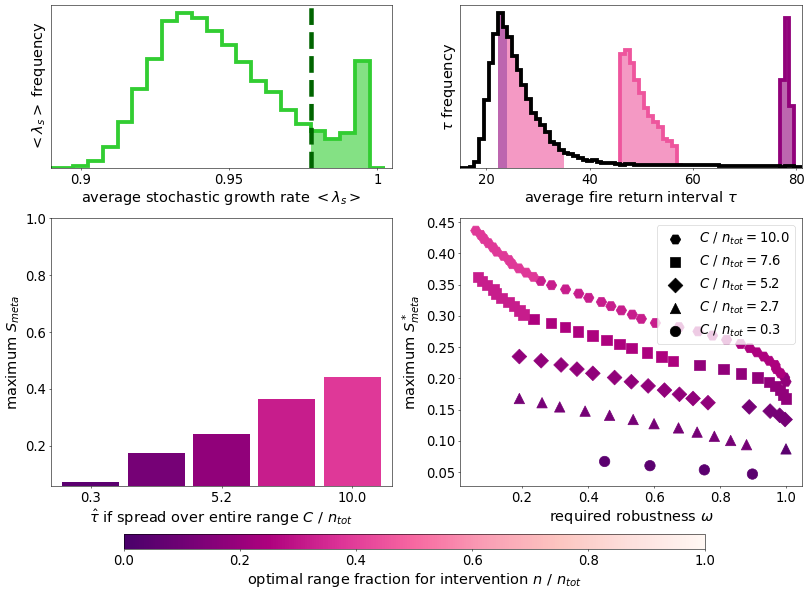
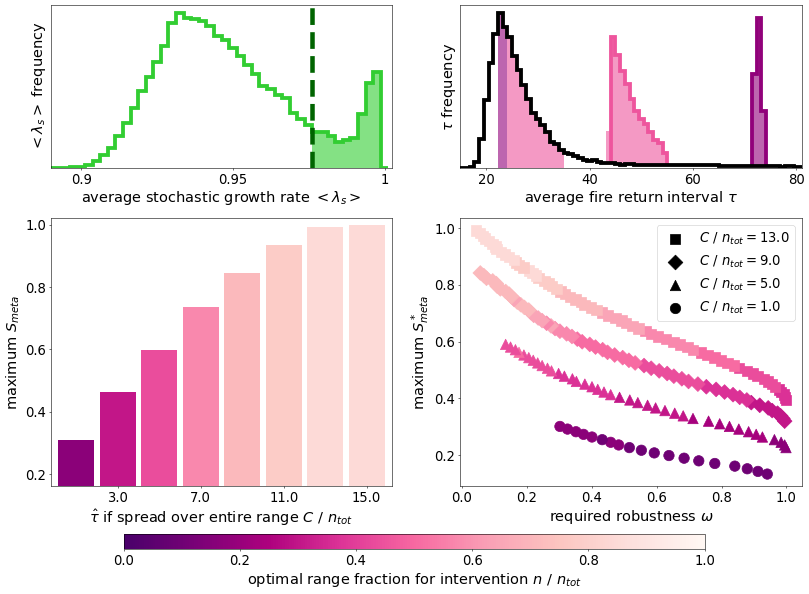
Update C initialization

diff --git a/sensitivity/project.py b/sensitivity/project.py
@@ -48,7 +48,6 @@ def run_sims(job):
     N_0_1 = Aeff*params['K_adult']
     N_0_1_vec = np.repeat(N_0_1, num_reps)
     init_age = params['a_mature'] - (np.log((1/0.90)-1) / params['eta_rho']) # Age where 90% of reproductive capacity reached
-    print('init_age:', init_age)
     init_age = int(init_age + 0.5) # Round to nearest integer
     t_vec = np.arange(delta_t, job.sp.t_final+delta_t, delta_t)
 
@@ -265,11 +264,6 @@ class Phase:
         if np.isnan(self.final_max_tau): 
             # NaN here means set to max of fri_vec
             self.final_max_tau = max(self.tau_vec)
-        self.baseline_A_vec = np.linspace(self.baseline_A_min, self.baseline_A_max, self.baseline_A_samples)
-
-        # Generate resource allocation values
-        self.ncell_baseline_vec = np.round(self.baseline_A_vec / self.A_cell).astype(int) 
-        self.C_vec = self.ncell_baseline_vec * self.tauc_baseline
 
         # Set generator for random uncertainties
         self.rng = np.random.default_rng()
@@ -354,7 +348,6 @@ class Phase:
                 ax.set_xlabel('<FRI>')
                 ax.set_ylabel(self.metric)
                 figs_dir = f"{self.meta_metric}/figs/Aeff_{self.Aeff}/tfinal_{self.t_final}/metric_{self.metric}/"
-                print(figs_dir)
                 if not os.path.isdir(figs_dir):
                     os.makedirs(figs_dir)
                 print("saving sensitivity figure")
@@ -425,6 +418,8 @@ class Phase:
 
         # Generate samples of remaining state variables
         self.ncell_tot = len(self.tau_flat)
+        # Get samples of total shift to fire regime (C)  
+        self.C_vec = self.tauc_min_samples * self.ncell_tot
         # Use the max post alteration tau to get an upper bound on right hand of initial tau slices
         self.tau_argsort_ref = np.argsort(self.tau_flat)
         tau_sorted = self.tau_flat[self.tau_argsort_ref] 
@@ -435,7 +430,7 @@ class Phase:
         # Min left bound set by user-defined constant
         slice_left_min = np.nonzero(tau_sorted > self.min_tau)[0][0]
         # Generate slice sizes of the tau distribution
-        self.ncell_vec = np.linspace(max(self.ncell_baseline_vec), self.slice_right_max, self.ncell_samples)
+        self.ncell_vec = np.linspace(self.ncell_min, self.slice_right_max, self.ncell_samples)
         self.ncell_vec = np.round(self.ncell_vec).astype(int)
         # Max left bound set by smallest slice size
         self.slice_left_max = self.slice_right_max - min(self.ncell_vec)
@@ -674,8 +669,8 @@ class Phase:
             metric_exp_dist[metric_exp_dist < 0] = 0.0
             if np.any(metric_exp_dist < 0): sys.exit(f"metric_expect is negative ({self.metric_expect}), exiting!")
         elif self.metric == 'lambda_s':
-            #threshold = 0.975
-            threshold = 0.994
+            threshold = 0.975
+            #threshold = 0.994
         '''Still calling this metric_expect for now but should change this to metric_quantity or something'''
         self.metric_expect = np.count_nonzero(metric_exp_dist >= threshold) / self.ncell_tot
 

diff --git a/sensitivity/phase.py b/sensitivity/phase.py
@@ -22,16 +22,13 @@ constants['lr_coord'] = [2723, 3905]
 constants['min_tau'] = 2
 constants['A_cell'] = 270**2 / 1e6 #km^2
 constants['plotting_tau_bw_ratio'] = 30 #For binning initial tau (with uncertainty) in phase slice plots
-constants['tauc_baseline'] = 200 #years, max(tauc) possible at min(ncell) given C
+constants['ncell_min'] = 2_500
 #constants['ncell_samples'] = 25
 constants['ncell_samples'] = 15
 #constants['slice_samples'] = 50
 constants['slice_samples'] = 30
-constants['baseline_A_min'] = 10 #km^2
-constants['baseline_A_max'] = 160 * 2.0043963553530753
-#constants['baseline_A_max'] = (160 * 2.0043963553530753) * 2
-#constants['baseline_A_samples'] = 9
-constants['baseline_A_samples'] = 5
+# Use the minimum tauc values (i.e. when spread over all cells) to determine C values
+constants['tauc_min_samples'] = np.arange(1, 17, 2) 
 constants['root'] = 0 #For mpi
 constants.update({'final_max_tau': np.nan})
 constants['overwrite_results'] = True
@@ -92,7 +89,7 @@ with tqdm(total=total_computations) as pbar:
                 # Generate uncertainties on initial tau values
                 pproc.generate_eps_tau(mu_tau, sigm_tau)
                 for mu_tauc, sigm_tauc in product(mu_tauc_vec, sigm_tauc_vec):
-                    if pproc.rank == pproc.root: print(f"on (mu_tau, sigm_tau, mu_tauc, sigm_tauc)={mu_tau, sigm_tau, mu_tauc, sigm_tauc}")
+                    #if pproc.rank == pproc.root: print(f"on (mu_tau, sigm_tau, mu_tauc, sigm_tauc)={mu_tau, sigm_tau, mu_tauc, sigm_tauc}")
                     # Generate uncertainties on alterations to tau values
                     pproc.generate_eps_tauc(mu_tauc, sigm_tauc)
                     # Calculate <metric> at sampled resource constraint values and alteration slice sizes

diff --git a/sensitivity/makefig.py b/sensitivity/makefig.py
@@ -28,7 +28,7 @@ tau_vec = b_vec * gamma(1+1/c)
 tau_step = np.diff(tau_vec)[0] / 2
 tau_edges = np.concatenate(([0], np.arange(tau_step/2, tau_vec[-1]+tau_step, tau_step)))
 tauc_methods = ["flat"]
-C_i_vec = [0,1,2,3,4]
+C_i_vec = [0,2,4,6]
 results_pre = 'gte_thresh' 
 #results_pre = 'distribution_avg' 
 
@@ -224,10 +224,13 @@ set_globals(results_pre)
 
 # Plot <metric> distribution outline
 tau_max = max(tau_edges)
-bin_step = 0.005
-bin_edges = np.concatenate(([0], np.arange(bin_step/2, 1+bin_step, bin_step)))
 color = 'limegreen'
 metric_interp = spl(tau_flat[tau_flat < tau_max])
+print(max(metric_interp))
+#bin_edges[-1] = max(metric_interp)
+bin_step = 0.0025
+#bin_edges = np.concatenate(([0], np.arange(bin_step/2, 1+bin_step, bin_step)))
+bin_edges = np.concatenate(([0], np.arange(bin_step/2, 1+bin_step, bin_step)))
 counts, bin_edges, hist = axes[0,0].hist(metric_interp, bins=bin_edges, color=color, histtype='step', lw=histlw);
 if metric == 'P_s':
     mlab = "$<S>$"
@@ -377,7 +380,8 @@ all_linestyles = ['dotted', 'dashdot', 'dashed', 'solid']
 #C_i_samples = [1,5,9]
 #C_i_samples = [1,3,6,9,11]
 #C_i_samples = [0,1,2,3,4]
-C_i_samples = [i for i in range(C_vec.size)][::1]
+C_i_samples = C_i_vec.copy()
+#C_i_samples = [i for i in range(C_vec.size)][::1]
 for line_i, C_i in enumerate(C_i_samples):
     plot_vec = np.ones(len(rob_thresh_vec)) * np.nan
     c_vec = np.ones(len(rob_thresh_vec)) * np.nan

diff --git a/sensitivity/postprocess.py b/sensitivity/postprocess.py
@@ -23,7 +23,7 @@ tau_vec = b_vec * gamma(1+1/c)
 tau_step = np.diff(tau_vec)[0] / 2
 tau_edges = np.concatenate(([0], np.arange(tau_step/2, tau_vec[-1]+tau_step, tau_step)))
 tauc_methods = ["flat"]
-C_i_vec = [0,1,2,3,4] # For generation of cell metric data
+C_i_vec = [0,2,4,6] # For generation of cell metric data
 results_pre_labs = ['gte_thresh']
 #results_pre_labs = ['distribution_avg']
 overwrite_robustness = True
